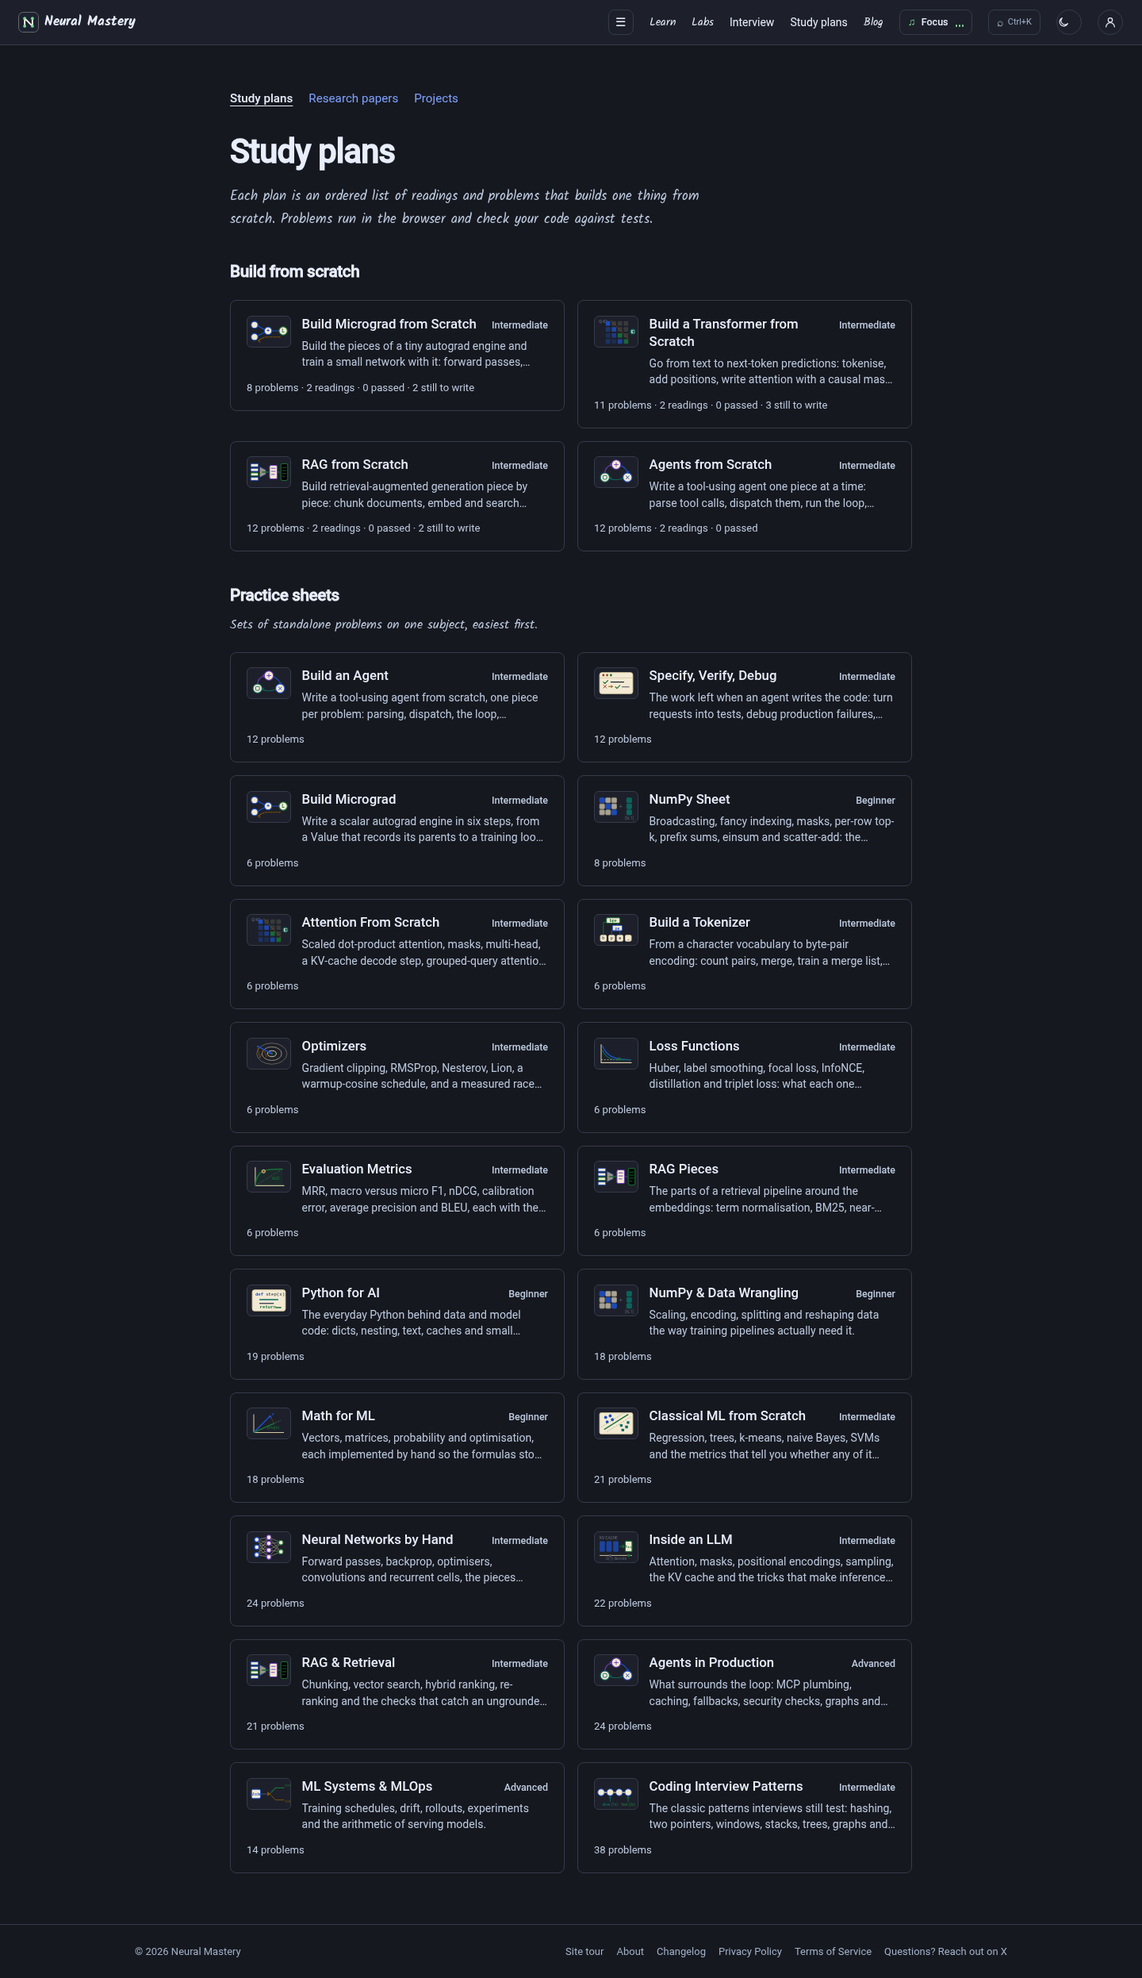
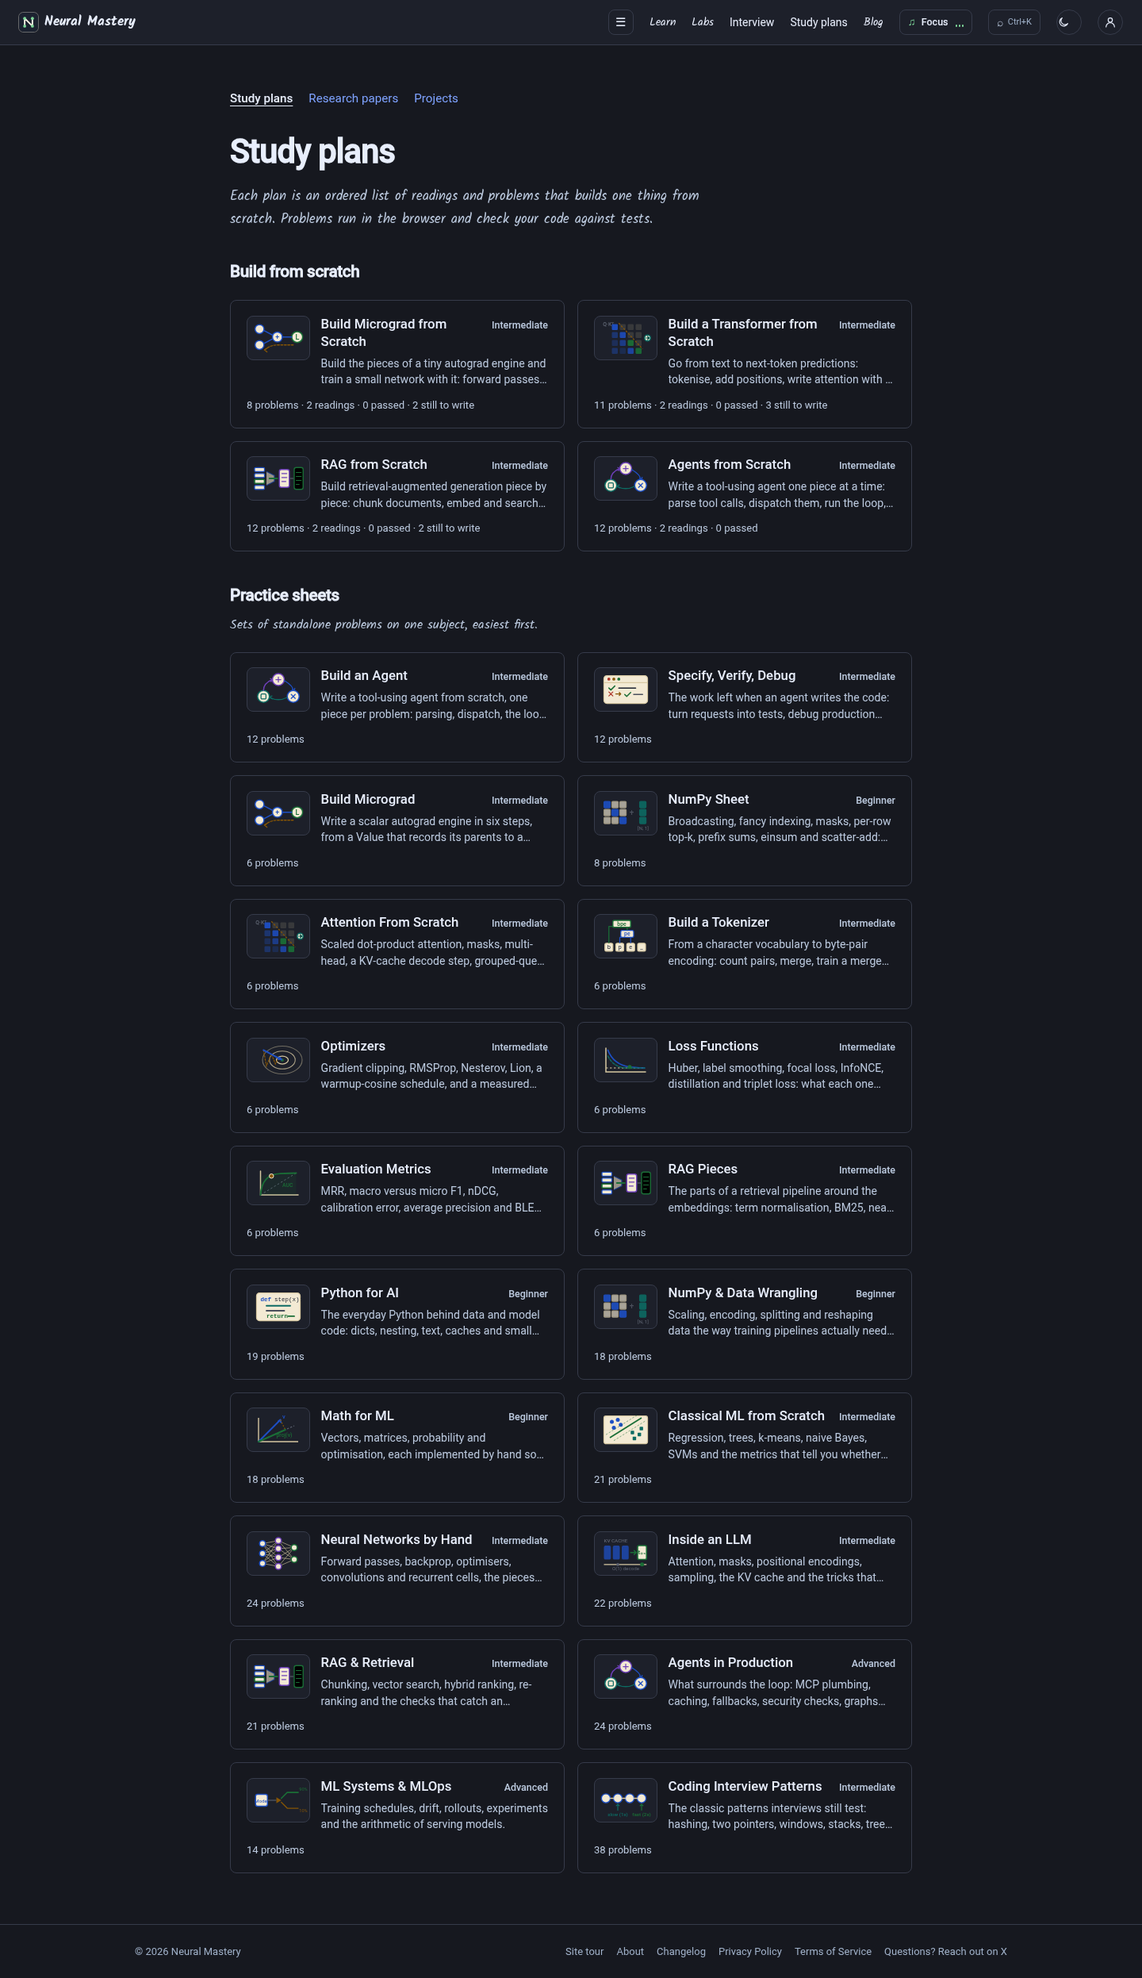
style(widgets): enlarge category visuals to 80x56 and update /study-plans

diff --git a/src/components/widgets/CategoryVisual.tsx b/src/components/widgets/CategoryVisual.tsx
@@ -387,6 +387,235 @@ export function CategoryVisual({ topic = 'generic', className }: CategoryVisualP
     );
   }
 
+  // 18. ResNet / Residual Skip Connection: F(x) + x
+  if (key.includes('resnet') || key.includes('residual')) {
+    return (
+      <svg viewBox="0 0 56 40" className={className} aria-hidden="true" focusable="false" style={{ width: '100%', height: '100%' }}>
+        {/* Input x */}
+        <circle cx="9" cy="20" r="3.5" fill={t.surface} stroke={t.accentSecondary} strokeWidth="1.2" />
+        <text x="9" y="22" fontSize="5.5" fontWeight="bold" fill={t.accentSecondary} textAnchor="middle">x</text>
+        {/* Main path: Weight layer 1 and 2 */}
+        <path d="M12.5 20H17" stroke={t.accentSecondary} strokeWidth="1.2" />
+        <rect x="17" y="14" width="10" height="12" rx="1.5" fill={t.surface} stroke={t.accentSecondary} strokeWidth="1.1" />
+        <text x="22" y="22" fontSize="5" fontWeight="bold" fill={t.textPrimary} textAnchor="middle">W₁</text>
+        <path d="M27 20H30" stroke={t.accentSecondary} strokeWidth="1.2" />
+        <rect x="30" y="14" width="10" height="12" rx="1.5" fill={t.surface} stroke={t.accentSecondary} strokeWidth="1.1" />
+        <text x="35" y="22" fontSize="5" fontWeight="bold" fill={t.textPrimary} textAnchor="middle">W₂</text>
+        <path d="M40 20H44" stroke={t.accentSecondary} strokeWidth="1.2" />
+        {/* Addition node: F(x) + x */}
+        <circle cx="47" cy="20" r="4" fill={t.surface} stroke={t.accentPrimary} strokeWidth="1.2" />
+        <text x="47" y="22.5" fontSize="7" fontWeight="bold" fill={t.accentPrimary} textAnchor="middle">+</text>
+        {/* Identity skip arc over the layers */}
+        <path d="M9 16.5V8C9 6 12 5 16 5H40C44 5 47 6 47 16" stroke={t.accentTeal} strokeWidth="1.4" strokeLinecap="round" fill="none" />
+        <path d="M45.5 13.5L47 16L48.5 13.5" stroke={t.accentTeal} strokeWidth="1.4" strokeLinecap="round" strokeLinejoin="round" fill="none" />
+        <text x="28" y="35" fontSize="5" fontWeight="bold" fill={t.accentPrimary} textAnchor="middle">F(x) + x</text>
+      </svg>
+    );
+  }
+
+  // 19. LoRA / Low-Rank Adaptation: W₀ + B · A
+  if (key.includes('lora') || key.includes('peft') || key.includes('adapter')) {
+    return (
+      <svg viewBox="0 0 56 40" className={className} aria-hidden="true" focusable="false" style={{ width: '100%', height: '100%' }}>
+        {/* Frozen Base Matrix W0 (d x k) */}
+        <rect x="6" y="8" width="16" height="24" rx="2" fill={t.surface} stroke={t.textMuted} strokeWidth="1.2" strokeDasharray="2 1.5" />
+        <text x="14" y="19" fontSize="6" fontWeight="bold" fill={t.textMuted} textAnchor="middle">W₀</text>
+        <text x="14" y="26" fontSize="4.5" fill={t.textMuted} textAnchor="middle">frozen</text>
+        {/* Plus sign */}
+        <text x="27" y="22" fontSize="8" fontWeight="bold" fill={t.accentSecondary} textAnchor="middle">+</text>
+        {/* Low-rank Matrix B (d x r) */}
+        <rect x="33" y="8" width="6" height="24" rx="1.5" fill={t.accentPrimary} opacity="0.8" />
+        <text x="36" y="22" fontSize="5.5" fontWeight="bold" fill={t.surface} textAnchor="middle">B</text>
+        {/* Low-rank Matrix A (r x k) */}
+        <rect x="42" y="17" width="10" height="6" rx="1.5" fill={t.accentTeal} opacity="0.85" />
+        <text x="47" y="22" fontSize="5.5" fontWeight="bold" fill={t.surface} textAnchor="middle">A</text>
+        <text x="41" y="36" fontSize="5" fontWeight="bold" fill={t.accentPrimary} textAnchor="middle">rank r</text>
+      </svg>
+    );
+  }
+
+  // 20. DPO / Direct Preference Optimization: Policy Ratio & Implicit Reward
+  if (key.includes('dpo') || key.includes('preference') || key.includes('rlhf')) {
+    return (
+      <svg viewBox="0 0 56 40" className={className} aria-hidden="true" focusable="false" style={{ width: '100%', height: '100%' }}>
+        {/* Prompt */}
+        <rect x="4" y="15" width="10" height="10" rx="2" fill={t.surface} stroke={t.accentSecondary} strokeWidth="1.1" />
+        <text x="9" y="22" fontSize="5" fontWeight="bold" fill={t.accentSecondary} textAnchor="middle">x</text>
+        <path d="M14 18L21 11" stroke={t.accentPrimary} strokeWidth="1.2" strokeLinecap="round" />
+        <path d="M14 22L21 29" stroke={t.accentDanger} strokeWidth="1.2" strokeLinecap="round" />
+        {/* Chosen yw (winner) */}
+        <rect x="22" y="6" width="18" height="10" rx="2" fill={t.surface} stroke={t.accentPrimary} strokeWidth="1.3" />
+        <text x="27" y="13" fontSize="5" fontWeight="bold" fill={t.accentPrimary}>y<tspan fontSize="4" dy="1">w</tspan></text>
+        <path d="M34 11L36 13L39 9" stroke={t.accentPrimary} strokeWidth="1.2" strokeLinecap="round" strokeLinejoin="round" fill="none" />
+        {/* Rejected yl (loser) */}
+        <rect x="22" y="24" width="18" height="10" rx="2" fill={t.surface} stroke={t.accentDanger} strokeWidth="1.1" />
+        <text x="27" y="31" fontSize="5" fontWeight="bold" fill={t.accentDanger}>y<tspan fontSize="4" dy="1">l</tspan></text>
+        <path d="M34 27L38 31M38 27L34 31" stroke={t.accentDanger} strokeWidth="1" strokeLinecap="round" />
+        {/* Margin bracket / gradient flow */}
+        <path d="M43 11H47C49 11 50 14 50 20C50 26 49 29 47 29H43" stroke={t.accentPurple} strokeWidth="1.2" fill="none" />
+        <text x="51" y="22" fontSize="6" fontWeight="bold" fill={t.accentPurple} textAnchor="middle">β</text>
+      </svg>
+    );
+  }
+
+  // 21. Vision Transformer (ViT) / Multimodal: 16x16 Patches to Linear Projection
+  if (key.includes('vit') || key.includes('vision') || key.includes('multimodal')) {
+    return (
+      <svg viewBox="0 0 56 40" className={className} aria-hidden="true" focusable="false" style={{ width: '100%', height: '100%' }}>
+        {/* 3x3 Image Patch Grid */}
+        {[0, 1, 2].map((r) =>
+          [0, 1, 2].map((c) => (
+            <rect
+              key={`p-${r}-${c}`}
+              x={5 + c * 7}
+              y={7 + r * 7}
+              width="6"
+              height="6"
+              rx="0.5"
+              fill={t.surface}
+              stroke={t.accentSecondary}
+              strokeWidth="0.8"
+            />
+          ))
+        )}
+        {/* Projection arrow */}
+        <path d="M28 17H34M32 15L34 17L32 19" stroke={t.accentPurple} strokeWidth="1.2" strokeLinecap="round" strokeLinejoin="round" fill="none" />
+        {/* Linear projection token sequence */}
+        {[0, 1, 2, 3].map((i) => (
+          <g key={`tok-${i}`}>
+            <rect x={36 + i * 4.5} y={11} width="3.5" height="12" rx="1" fill={i === 0 ? t.accentPrimary : t.accentTeal} opacity={i === 0 ? 0.95 : 0.7} />
+          </g>
+        ))}
+        <text x="36" y="30" fontSize="5" fontWeight="bold" fill={t.accentPrimary}>[CLS] + pos</text>
+      </svg>
+    );
+  }
+
+  // 22. Word2Vec: Skip-Gram / CBOW Target & Context Projection
+  if (key.includes('word2vec') || key.includes('embedding')) {
+    return (
+      <svg viewBox="0 0 56 40" className={className} aria-hidden="true" focusable="false" style={{ width: '100%', height: '100%' }}>
+        {/* Target word */}
+        <rect x="5" y="15" width="13" height="10" rx="2" fill={t.surface} stroke={t.accentPrimary} strokeWidth="1.3" />
+        <text x="11.5" y="22" fontSize="5.5" fontWeight="bold" fill={t.accentPrimary} textAnchor="middle">w(t)</text>
+        {/* Embedding Hidden Layer */}
+        <path d="M18 20H25" stroke={t.textSecondary} strokeWidth="1.1" />
+        <circle cx="28" cy="20" r="4.5" fill={t.accentPurple} opacity="0.85" />
+        <text x="28" y="22" fontSize="5" fontWeight="bold" fill={t.surface} textAnchor="middle">W</text>
+        {/* Context Words Projections */}
+        <path d="M31.5 17L38 10" stroke={t.accentSecondary} strokeWidth="1.1" />
+        <path d="M32.5 20H38" stroke={t.accentSecondary} strokeWidth="1.1" />
+        <path d="M31.5 23L38 30" stroke={t.accentSecondary} strokeWidth="1.1" />
+        <rect x="38" y="6" width="14" height="8" rx="1.5" fill={t.surface} stroke={t.accentSecondary} strokeWidth="1" />
+        <text x="45" y="12" fontSize="4.5" fill={t.textPrimary} textAnchor="middle">w(t-1)</text>
+        <rect x="38" y="16" width="14" height="8" rx="1.5" fill={t.surface} stroke={t.accentSecondary} strokeWidth="1" />
+        <text x="45" y="22" fontSize="4.5" fill={t.textPrimary} textAnchor="middle">w(t+1)</text>
+        <rect x="38" y="26" width="14" height="8" rx="1.5" fill={t.surface} stroke={t.accentSecondary} strokeWidth="1" />
+        <text x="45" y="32" fontSize="4.5" fill={t.textPrimary} textAnchor="middle">w(t+2)</text>
+      </svg>
+    );
+  }
+
+  // 23. Voice Assistant / Speech Audio: Waveform to Speech Tokens to Voice
+  if (key.includes('voice') || key.includes('speech') || key.includes('audio')) {
+    return (
+      <svg viewBox="0 0 56 40" className={className} aria-hidden="true" focusable="false" style={{ width: '100%', height: '100%' }}>
+        {/* Audio Waveform Bars */}
+        {[4, 8, 12, 16, 20].map((x, idx) => {
+          const heights = [10, 18, 26, 16, 8];
+          const h = heights[idx];
+          return (
+            <rect
+              key={`bar-${x}`}
+              x={x}
+              y={20 - h / 2}
+              width="2.5"
+              height={h}
+              rx="1.2"
+              fill={t.accentSecondary}
+            />
+          );
+        })}
+        {/* VAD / STT Model block */}
+        <path d="M23 20H28" stroke={t.textSecondary} strokeWidth="1.1" />
+        <rect x="28" y="11" width="11" height="18" rx="2" fill={t.surface} stroke={t.accentPrimary} strokeWidth="1.2" />
+        <text x="33.5" y="18" fontSize="4.5" fontWeight="bold" fill={t.accentPrimary} textAnchor="middle">STT</text>
+        <text x="33.5" y="25" fontSize="4" fill={t.textMuted} textAnchor="middle">VAD</text>
+        {/* Synthesized Output Wave */}
+        <path d="M39 20H43" stroke={t.textSecondary} strokeWidth="1.1" />
+        <path d="M44 14C47 16 47 24 44 26M47 10C51 14 51 26 47 30" stroke={t.accentTeal} strokeWidth="1.4" strokeLinecap="round" fill="none" />
+      </svg>
+    );
+  }
+
+  // 24. Distributed Systems & Software System Design: Load Balancer + Multi-Region Replicas + Cache
+  if (key.includes('software-system-design') || key.includes('distributed') || key.includes('system-design') || key.includes('scale')) {
+    return (
+      <svg viewBox="0 0 56 40" className={className} aria-hidden="true" focusable="false" style={{ width: '100%', height: '100%' }}>
+        {/* Client */}
+        <circle cx="8" cy="20" r="3.5" fill={t.surface} stroke={t.textSecondary} strokeWidth="1.1" />
+        <path d="M12 20H17" stroke={t.textSecondary} strokeWidth="1.1" />
+        {/* Load Balancer */}
+        <rect x="17" y="11" width="8" height="18" rx="2" fill={t.surface} stroke={t.accentPurple} strokeWidth="1.2" />
+        <text x="21" y="21" fontSize="4.5" fontWeight="bold" fill={t.accentPurple} textAnchor="middle">LB</text>
+        {/* Service Replicas (Primary & Secondary) */}
+        <path d="M25 15L32 10" stroke={t.accentSecondary} strokeWidth="1" />
+        <path d="M25 25L32 30" stroke={t.accentSecondary} strokeWidth="1" />
+        <rect x="32" y="6" width="10" height="8" rx="1.5" fill={t.surface} stroke={t.accentSecondary} strokeWidth="1" />
+        <text x="37" y="12" fontSize="4.5" fill={t.textPrimary} textAnchor="middle">Svr 1</text>
+        <rect x="32" y="26" width="10" height="8" rx="1.5" fill={t.surface} stroke={t.accentSecondary} strokeWidth="1" />
+        <text x="37" y="32" fontSize="4.5" fill={t.textPrimary} textAnchor="middle">Svr 2</text>
+        {/* Distributed Cache / DB Storage */}
+        <rect x="45" y="14" width="8" height="12" rx="1.5" fill={t.surface} stroke={t.accentTeal} strokeWidth="1.2" />
+        <line x1="45" y1="18" x2="53" y2="18" stroke={t.accentTeal} strokeWidth="0.8" />
+        <text x="49" y="23" fontSize="4.5" fontWeight="bold" fill={t.accentTeal} textAnchor="middle">DB</text>
+      </svg>
+    );
+  }
+
+  // 25. Agent Protocols / MCP / Interop: Tool Protocol & Client-Server Schema
+  if (key.includes('protocol') || key.includes('mcp') || key.includes('interop')) {
+    return (
+      <svg viewBox="0 0 56 40" className={className} aria-hidden="true" focusable="false" style={{ width: '100%', height: '100%' }}>
+        {/* Host/Client */}
+        <rect x="5" y="10" width="12" height="20" rx="2" fill={t.surface} stroke={t.accentSecondary} strokeWidth="1.2" />
+        <text x="11" y="21" fontSize="5" fontWeight="bold" fill={t.accentSecondary} textAnchor="middle">Host</text>
+        {/* Bidirectional JSON-RPC messages */}
+        <path d="M18 16H36" stroke={t.accentTeal} strokeWidth="1.2" strokeLinecap="round" />
+        <path d="M34 14L36 16L34 18" stroke={t.accentTeal} strokeWidth="1.2" strokeLinecap="round" strokeLinejoin="round" fill="none" />
+        <path d="M36 24H18" stroke={t.accentPrimary} strokeWidth="1.2" strokeLinecap="round" />
+        <path d="M20 22L18 24L20 26" stroke={t.accentPrimary} strokeWidth="1.2" strokeLinecap="round" strokeLinejoin="round" fill="none" />
+        {/* MCP Server / Tools */}
+        <rect x="37" y="10" width="14" height="20" rx="2" fill={t.surface} stroke={t.accentPurple} strokeWidth="1.2" />
+        <text x="44" y="19" fontSize="5" fontWeight="bold" fill={t.accentPurple} textAnchor="middle">MCP</text>
+        <text x="44" y="25" fontSize="4" fill={t.accentPurple} textAnchor="middle">tools</text>
+        <text x="27" y="34" fontSize="4.5" fontWeight="bold" fill={t.textMuted} textAnchor="middle">JSON-RPC</text>
+      </svg>
+    );
+  }
+
+  // 26. Batched Serving & Continuous Batching: Queue + Paged Slots
+  if (key.includes('batch') || key.includes('serving') || key.includes('continuous')) {
+    return (
+      <svg viewBox="0 0 56 40" className={className} aria-hidden="true" focusable="false" style={{ width: '100%', height: '100%' }}>
+        {/* Incoming requests queue */}
+        <rect x="5" y="8" width="8" height="6" rx="1" fill={t.accentSecondary} opacity="0.8" />
+        <rect x="5" y="16" width="8" height="6" rx="1" fill={t.accentTeal} opacity="0.8" />
+        <rect x="5" y="24" width="8" height="6" rx="1" fill={t.accentWarn} opacity="0.8" />
+        <path d="M15 19H22M20 17L22 19L20 21" stroke={t.textSecondary} strokeWidth="1.1" strokeLinecap="round" strokeLinejoin="round" fill="none" />
+        {/* Continuous Batching GPU Arena */}
+        <rect x="24" y="7" width="26" height="26" rx="3" fill={t.surface} stroke={t.accentPrimary} strokeWidth="1.2" />
+        <text x="37" y="14" fontSize="5" fontWeight="bold" fill={t.accentPrimary} textAnchor="middle">Batch Slot</text>
+        {/* Slot rows */}
+        <rect x="27" y="17" width="12" height="4" rx="1" fill={t.accentSecondary} opacity="0.9" />
+        <rect x="40" y="17" width="7" height="4" rx="1" fill={t.accentTeal} opacity="0.9" />
+        <rect x="27" y="23" width="8" height="4" rx="1" fill={t.accentWarn} opacity="0.9" />
+        <rect x="36" y="23" width="11" height="4" rx="1" fill={t.accentPrimary} opacity="0.9" />
+        <text x="37" y="37" fontSize="4.5" fill={t.textMuted} textAnchor="middle">PagedAttention</text>
+      </svg>
+    );
+  }
+
   // Default Fallback: Neural Layer Connections
   return (
     <svg viewBox="0 0 56 40" className={className} aria-hidden="true" focusable="false" style={{ width: '100%', height: '100%' }}>

diff --git a/src/components/widgets/categoryWidgets.css b/src/components/widgets/categoryWidgets.css
@@ -46,9 +46,9 @@
 
 .nm-category-widget-visual {
   flex-shrink: 0;
-  width: 56px;
-  height: 40px;
-  border-radius: 6px;
+  width: 80px;
+  height: 56px;
+  border-radius: 8px;
   background: var(--nb-paper-alt, var(--nm-surface-alt));
   border: 1px solid var(--nb-rule, var(--nm-border));
   display: flex;
@@ -56,6 +56,14 @@
   justify-content: center;
   overflow: hidden;
   box-sizing: border-box;
+  padding: 2px;
+}
+
+@media (max-width: 420px) {
+  .nm-category-widget-visual {
+    width: 70px;
+    height: 50px;
+  }
 }
 
 .nm-category-widget-header {

diff --git a/AGENT_TRACKER.md b/AGENT_TRACKER.md
@@ -83,7 +83,8 @@ Before writing any code or making edits:
 | `2026-11-09T00:15:00+05:30` | `Antigravity` | `interview-speech-test` | `src/viz/diagrams/`, `docs/evidence/diagram-audit/`, `docs/roadmap-100.md`, `AGENT_TRACKER.md` | Roadmap task 80 Batch 7: Screen remaining 87 pending candidates in screening.csv until all 240 viewed, resolve arrow crossings & label collisions with before/after evidence | `COMPLETED` | Typecheck, Links, Vitest diagramAudit (Passed) | Commit `ad24bfa3`. Batch 7: screened all remaining candidates 154-240 (240/240 total viewed; 75 fixed, 165 clean, 0 pending). Resolved 13 confirmed defects with before/after evidence (NineStepPipeline, ModelServingRequestFlow, PrometheusGrafanaFlow, PubSubVsPointToPoint, NarrowVsMonolithicTools, RlhfPipeline, RnnUnrolled, Seq2Seq, ShadowDeployment, SystemDesignFlow, TwoPaths, VectorOperations, VisionDataContract). Port 5201 only; no build, no push. |
 
 | `2026-11-09T00:45:00+05:30` | `Codex` | `interview-stt` | Speech engine/worker, question prompt helper, SimpleInterviewPage speech lifecycle, speech accuracy scripts/docs | Preserve main design and immediate answer; measured slow-device cutoff and question-term prompt evaluation | `COMPLETED` | Typecheck, Links, MDX, 717 unit tests, 5 follow-up ASR runs, focused UI and asset hashes (Passed); build/full Playwright omitted by user | Implementation `1471c65b`; prior evidence `00f62fcc`; merged main in `af424b18`. 25% CPU WER 73.3% to 29.2% (still above Base-only 21.7%); normal 6.7%; human terms 3/5 to 4/5, negative insertions 0/18. Immediate model answer retained; transcript stays in background; no interview fine print. Physical mic/GPU inference unmeasured. No push. |
-| `2026-11-09T02:15:00+05:30` | `Antigravity` | `interview-speech-test` | `src/components/widgets/`, `src/components/StudyPlansPages.tsx`, `docs/evidence/widgets/`, `AGENT_TRACKER.md` | Execute category-widgets-agy.md part 1: Reusable CategoryWidgetCard with topic SVGs, apply to /study-plans, verify 1440px & 375px light/dark | `IN_PROGRESS` | Pending (Typecheck, Scoped Vitest, Viewport Screenshots) | Phase 1: /study-plans category widget cards with topic SVGs, responsive grid, progress indicator, 44px targets. Dev server on port 5201 only; no build, no push. |
+| `2026-11-09T02:15:00+05:30` | `Antigravity` | `interview-speech-test` | `src/components/widgets/`, `src/components/StudyPlansPages.tsx`, `docs/evidence/widgets/`, `AGENT_TRACKER.md` | Execute category-widgets-agy.md part 1: Reusable CategoryWidgetCard with topic SVGs, apply to /study-plans, verify 1440px & 375px light/dark | `COMPLETED` | Typecheck, Scoped Vitest, Viewport Screenshots (Passed) | Commit `fd2c36b3`. Phase 1: /study-plans category widget cards with topic SVGs, responsive grid, progress indicator, 44px targets. Dev server on port 5201 only; no build, no push. |
+| `2026-11-09T09:55:00+05:30` | `Antigravity` | `interview-speech-test` | `src/components/widgets/`, `src/components/StudyPlansPages.tsx`, `src/components/PracticeListPage.tsx`, `src/components/interview/`, `src/components/AtlasHubPage.tsx`, `src/components/Home.tsx`, `docs/evidence/widgets/`, `AGENT_TRACKER.md` | Enlarge category visuals and roll out CategoryWidgetCard to /study-plans (enlarged), /research, /projects, /labs, /interview & /interview/topics, /atlas, /learn in ordered commits | `IN_PROGRESS` | Typecheck, Scoped Vitest, Playwright 1440px & 375px screenshots | Enlarging visual container to 80x56 with enhanced topic SVGs; rolling out page by page with 1440px and 375px light and dark screenshots. Port 5201 only, no build, no push. |
 
 | `2026-11-09T02:21:00+05:30` | `Codex` | `software-system-design` | `src/content/docs/software-system-design/`, new system-design visualizers, interview bank/criteria/generated data, interview exporter and InterviewPage test, sectionMeta, page metadata, verification script/evidence | Execute software system design brief in ordered page commits | `COMPLETED` | Typecheck, Links, MDX, 44 scoped tests, criteria, 32 Python snippets, 64 Pyodide executions, responsive/theme/controls (Passed); build and full suites omitted by brief | 18 page commits in brief order: `6c01bc43` through `3f91ab46`; 17 track pages, 18 interview questions, 6 interactive components. Evidence: docs/evidence/software-system-design/verification.md. Existing material linked; all 32 snippets ran in both themes. New bank tested through UI. Dev server/browsers stopped. No push, build, pagefind, or full suites per brief. |
 
